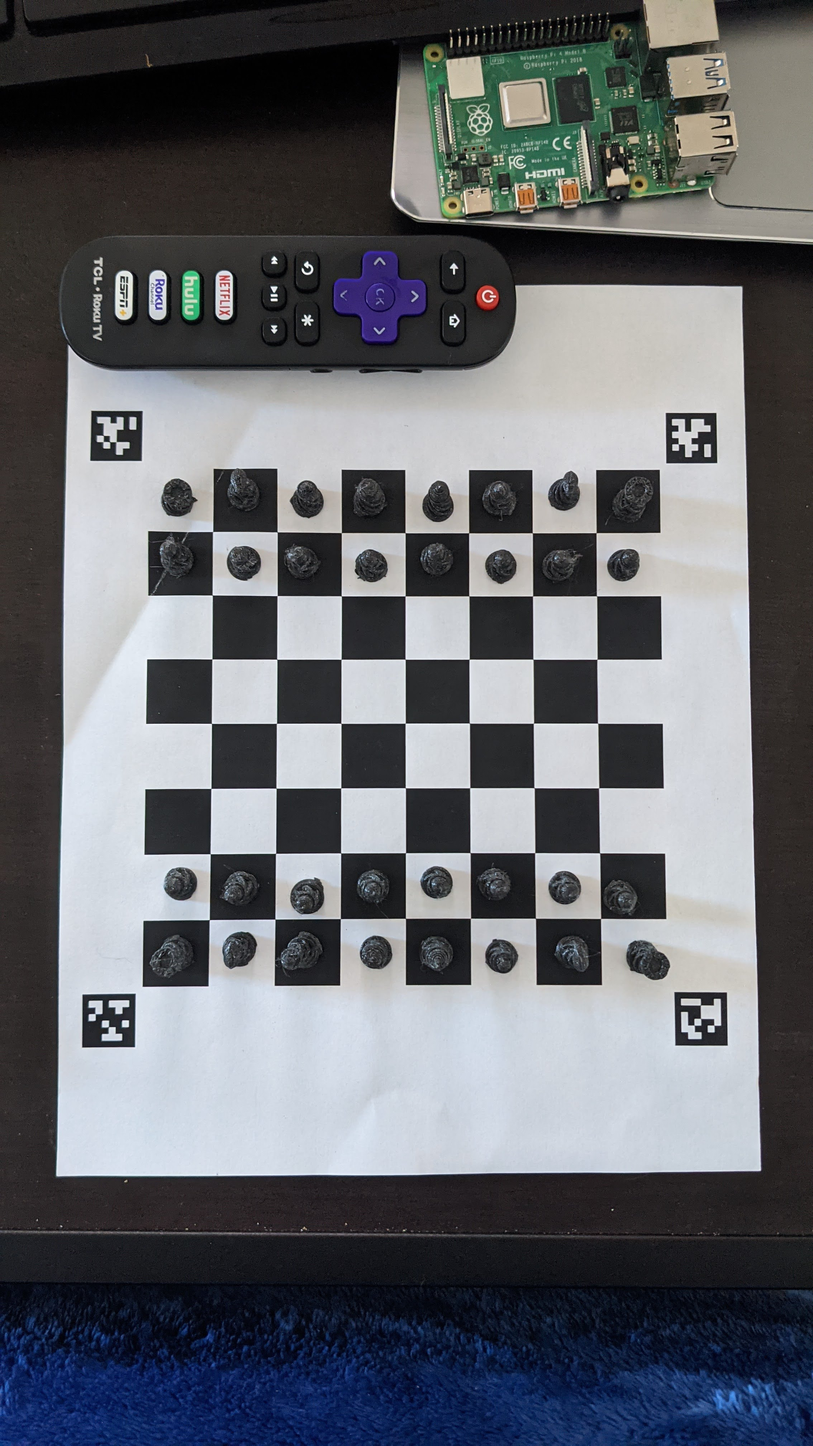
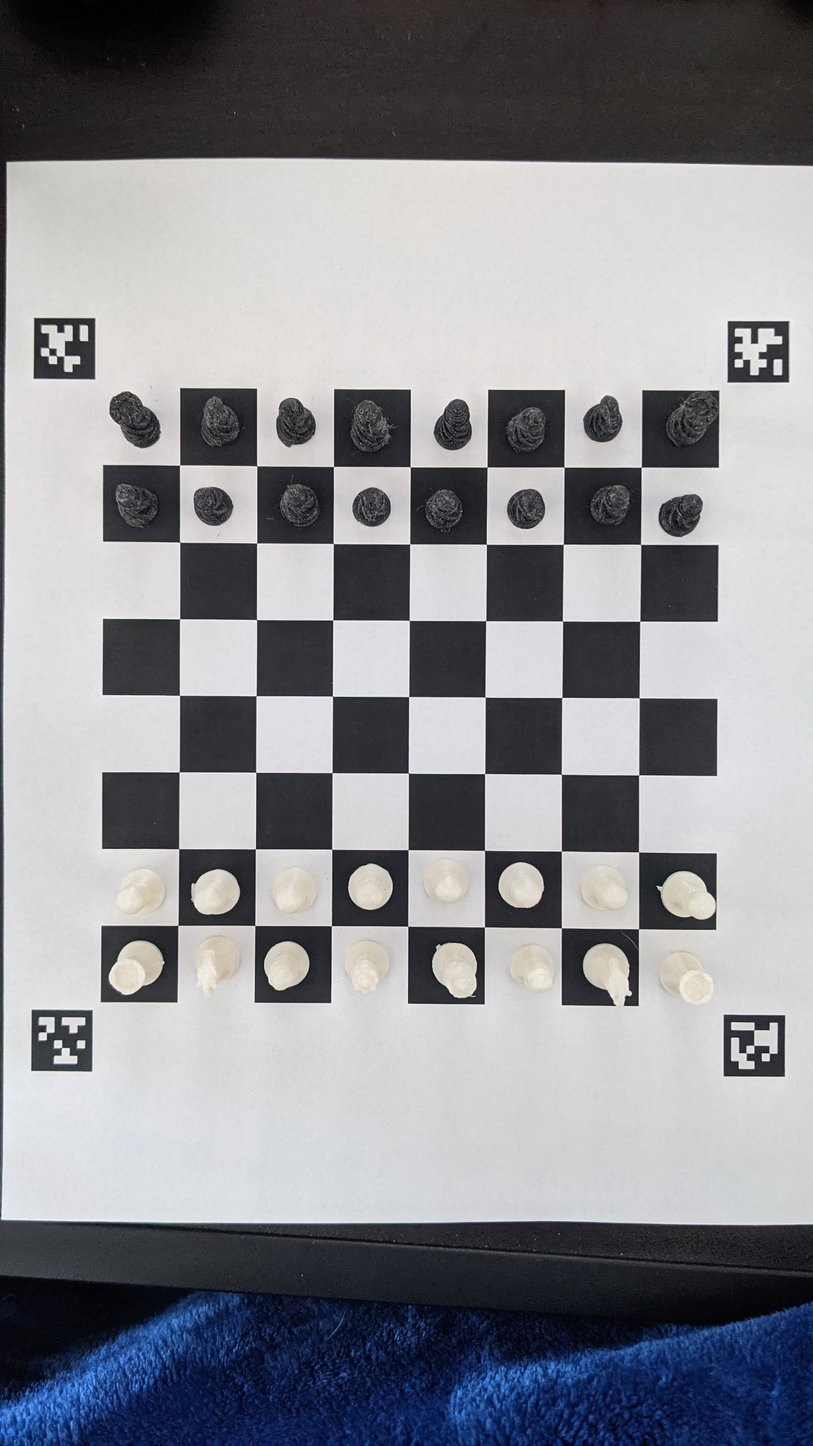
Finished prototype function for color identification

diff --git a/Chessboard.py b/Chessboard.py
@@ -3,6 +3,7 @@ from os import environ
 environ['PYGAME_HIDE_SUPPORT_PROMPT'] = '1'
 import chess, time, pygame, chess.engine, cv2, copy, math
 import numpy as np
+import random as rng
 from apriltag import apriltag
 
 #-----------------------------------------DETECTION FUNCTIONS--------------------------------------------------
@@ -91,7 +92,7 @@ def perspective_shift(image, corners):
 
 def get_detection_array(image):
     labeled_image = copy.copy(image)
-    
+        
     Files = "ABCDEFGH"
     
     blue = (255, 0, 0)
@@ -128,13 +129,10 @@ def get_detection_array(image):
     return labeled_image, detection_array
 
 def edge_detection(image):
-    image = cv2.medianBlur(image,11)
-    edges = cv2.Canny(image,80,100)
-    #cv2.imshow(str(np.sum(edges)), edges)
-    #cv2.imshow("Original", image)
-    #cv2.waitKey(0)
-    #cv2.destroyAllWindows()
-    return np.stack((edges,)*3, axis=-1), np.sum(edges)
+    blurred = cv2.medianBlur(image,3)
+    edges = cv2.Canny(blurred,80,100)
+    edges = np.stack((edges,)*3, axis=-1)
+    return edges, np.sum(edges)
 
 def get_color_array(image, detection_array):
     blue = (255, 0, 0)
@@ -144,36 +142,103 @@ def get_color_array(image, detection_array):
     gray = cv2.cvtColor(copy.copy(image), cv2.COLOR_BGR2GRAY)
     size = gray.shape[0]
     pixel = size / 82
-    color_array = np.zeros((8, 8), dtype=int)
-    average_empty_white = 0
-    average_empty_black = 0
+    color_array = np.zeros((8, 8), dtype=float)
+    white_square_ref = 0
+    empty_white_count = 0
+    black_square_ref = 0
+    empty_black_count = 0
     for y in range(8):
         for x in range(8):
-            start_point = (int(round(3 * pixel + 10 * pixel * x)), int(round(3 * pixel + 10 * pixel * y)))
-            end_point = (int(round(10 * pixel * (x + 1) - pixel)), int(round(10 * pixel * (y + 1) - pixel)))
-            
-            average = average_color(gray[start_point[1]:end_point[1], start_point[0]:end_point[0]])
-                        
-            cv2.putText(gray, str(average), (int(start_point[0]), int(start_point[1] + pixel*4.5)), cv2.FONT_HERSHEY_COMPLEX, 1, blue, 4)
-            
+            #If the current square is empty
+            if (detection_array[y][x] == 0):
+                start_point = (int(round(2 * pixel + 10 * pixel * x)), int(round(2 * pixel + 10 * pixel * y)))
+                end_point = (int(round(10 * pixel * (x + 1))), int(round(10 * pixel * (y + 1))))
+                
+                average = average_color(gray[start_point[1]:end_point[1], start_point[0]:end_point[0]])
+                                
+                cv2.putText(gray, str(average), (int(start_point[0]), int(start_point[1] + pixel*2.5)), cv2.FONT_HERSHEY_COMPLEX, 1.3, blue, 4)
+                
+                cv2.rectangle(gray, start_point, end_point, red, thickness)
+                #If the current square is white
+                if ((x + y) % 2 == 0):
+                    #cv2.putText(gray, str(average), (int(start_point[0]), int(start_point[1] + pixel*4.5)), cv2.FONT_HERSHEY_COMPLEX, 1, blue, 4)
+                    white_square_ref += average
+                    empty_white_count += 1
+                #If the current square is black
+                else:
+                    #cv2.putText(gray, str(average), (int(start_point[0]), int(start_point[1] + pixel*4.5)), cv2.FONT_HERSHEY_COMPLEX, 1, blue, 4)
+                    black_square_ref += average
+                    empty_black_count += 1
+    
+    #print(empty_black_count, empty_white_count)
+    
+    white_square_ref = white_square_ref / empty_white_count
+    black_square_ref = black_square_ref / empty_black_count
+        
+    #print(white_square_ref, black_square_ref)
+    
+    percentange = 0.1
+    
+    white_square_ref_lower = white_square_ref * (1 - percentange)
+    white_square_ref_higher = white_square_ref * (1 + percentange)
+    black_square_ref_lower = black_square_ref * (1 - percentange)
+    black_square_ref_higher = black_square_ref * (1 + percentange)
+    
+    #print(white_square_ref_lower, white_square_ref_higher, black_square_ref_lower, black_square_ref_higher)
+        
+    for y in range(8):
+        for x in range(8):
+            #If current square is occupied
+            if (detection_array[y][x] == 1):
+                start_point = (int(round(2 * pixel + 10 * pixel * x)), int(round(2 * pixel + 10 * pixel * y)))
+                end_point = (int(round(10 * pixel * (x + 1))), int(round(10 * pixel * (y + 1))))
+                square = gray[start_point[1]:end_point[1], start_point[0]:end_point[0]]
+                #If the current square is white
+                if ((x + y) % 2 == 0):
+                    square_mask = cv2.inRange(square, white_square_ref_lower, white_square_ref_higher)
+                    output = cv2.bitwise_and(square, square, mask = cv2.bitwise_not(square_mask))
+                    gray[start_point[1]:end_point[1], start_point[0]:end_point[0]] = output
+                    
+                    color_array[y][x] = average_color(output)
+                    
+                    cv2.putText(gray, str(average_color(output)), (int(start_point[0]), int(start_point[1] + pixel*4.5)), cv2.FONT_HERSHEY_COMPLEX, 1.3, blue, 4)
+                    #if (color_array[y][x] > white_square_ref):
+                        #cv2.putText(gray, 'over', (int(start_point[0]), int(start_point[1] + pixel*4.5)), cv2.FONT_HERSHEY_COMPLEX, 1.3, blue, 4)
+                    #elif (color_array[y][x] < white_square_ref):
+                        #cv2.putText(gray, 'under', (int(start_point[0]), int(start_point[1] + pixel*4.5)), cv2.FONT_HERSHEY_COMPLEX, 1.3, blue, 4)
+                #If the current square is black
+                else:
+                    square_mask = cv2.inRange(square, black_square_ref_lower, black_square_ref_higher)
+                    output = cv2.bitwise_and(square, square, mask = cv2.bitwise_not(square_mask))
+                    gray[start_point[1]:end_point[1], start_point[0]:end_point[0]] = output
+                    
+                    color_array[y][x] = average_color(output)
+                    
+                    cv2.putText(gray, str(average_color(output)), (int(start_point[0]), int(start_point[1] + pixel*4.5)), cv2.FONT_HERSHEY_COMPLEX, 1.3, blue, 4)
+                    #if (color_array[y][x] > black_square_ref):
+                        #cv2.putText(gray, '', (int(start_point[0]), int(start_point[1] + pixel*4.5)), cv2.FONT_HERSHEY_COMPLEX, 1.3, blue, 4)
+                    #elif (color_array[y][x] < black_square_ref):
+                        #cv2.putText(gray, '', (int(start_point[0]), int(start_point[1] + pixel*4.5)), cv2.FONT_HERSHEY_COMPLEX, 1.3, blue, 4)
+        
+    minval = np.min(color_array[np.nonzero(color_array)])
+    maxval = np.max(color_array[np.nonzero(color_array)])
+    
+    boundary = (maxval + minval) / 2
+    
+    for y in range(8):
+        for x in range(8):
+            if (color_array[y][x] > 0):
+                if (color_array[y][x] < boundary):
+                    color_array[y][x] = 1
+                else:
+                    color_array[y][x] = 2
+        
+    print(color_array.astype(np.int64))
+    
     return gray, color_array
 
 def average_color(image):
-    if (len(image.shape) > 2):
-        average = [0] * 3
-        for color in range(image.shape[2]):
-            for y in range(image.shape[0]):
-                for x in range(image.shape[1]):
-                    average[color] += image[y][x][color]
-            average[color] = average[color] // (image.shape[0] * image.shape[1])
-    else:
-        average = 0
-        for y in range(image.shape[0]):
-            for x in range(image.shape[1]):
-                    average += image[y][x]
-            average = round(average / (image.shape[0] * image.shape[1]), 4)
-    #print(average)
-    return average
+    return round(np.average(image[np.nonzero(image)]), 4)
                 
 
 #-----------------------------------------IMAGE DETECTION MAIN FUNCTIONS
@@ -225,7 +290,7 @@ def process_frame(frame):
     
     #Make copies of original image to keep the same for display 
     apriltagCorners, shifted, cropped, final = copy_image(frame, 4)
-            
+    
     #If 4 apriltags are seen (one in each 4 corners of chessboard), crop image and run detection
     if(len(detections) == 4):
         #Get values for the inside corners of each 4 apriltags
@@ -242,16 +307,6 @@ def process_frame(frame):
         
         gray, color_array = get_color_array(shifted, detection_array)
         
-    #Display output images
-    #show_images('resize', ('Original', frame), ('Perspective shifted', shifted), ('Labeled Image', final))
-    #show_images('resize', ('Final', final))
-
-    #Wait for use to press key
-    #cv2.waitKey(0)
-    
-    #Delete all image windows
-    #cv2.destroyAllWindows()
-    
     return detection_array, final, gray
 
 #-----------------------------------------CHESS MOVE FUNCTIONS
@@ -465,57 +520,35 @@ def print_board(window, board_array, square_size):
                 window.blit(board_array[x][y][0], board_array[x][y][1])
     pygame.display.flip()
 
-window, square_size = create_gui()
+#window, square_size = create_gui()
 
-board_array = create_board_array()
+#board_array = create_board_array()
 
-board = chess.Board()
+#board = chess.Board()
 
-print_board(window, board_array, square_size)
+#print_board(window, board_array, square_size)
 
-old_detection_array, final_image, gray = process_frame(cv2.imread('TestingImages/ItalianGame1.jpg'))
-show_images('resize', ('Final Move 1', final_image), ('Color Values Move 1', gray))
+begin = time.time()
+
+old_detection_array, piece_detection, gray = process_frame(cv2.imread('TestingImages/LightingTesting_cropped.jpg'))
+#show_images('resize', ('Color Values', gray), ('Piece Detection', piece_detection))
+show_images('resize', ('Color Values', gray))
+
+print(time.time() - begin)
+
 cv2.waitKey(0)
 
-for i in range(2, 7):
-    new_detection_array, final_image, gray = process_frame(cv2.imread('TestingImages/ItalianGame' + str(i) + '.jpg'))
-    cv2.destroyAllWindows()
-    show_images('resize', ('Final Move '+str(i), final_image), ('Color Values Move '+str(i), gray))
-    move = detection_array_to_uci(old_detection_array, new_detection_array)
-    move = chess.Move.from_uci(move)
-    board_array = update_board_array_uci(board, board_array, chess.Move.uci(move))
-    board.push(move)
-    print_board(window, board_array, square_size)
-    old_detection_array = new_detection_array
-    
-    cv2.waitKey(0)
-
-time.sleep(2)
-
-#new_detection_array = picture_method('TestingImages/ItalianGame_CaptureTesting1.jpg')
-#detection_array_to_uci(old_detection_array, new_detection_array)
-#old_detection_array = new_detection_array
-
-#new_detection_array = picture_method('TestingImages/ItalianGame_CaptureTesting2.jpg')
-#detection_array_to_uci(old_detection_array, new_detection_array)
-#old_detection_array = new_detection_array
-
-#new_detection_array = picture_method('TestingImages/ItalianGame_CaptureTesting3.jpg')
-#detection_array_to_uci(old_detection_array, new_detection_array)
-#old_detection_array = new_detection_array
-
-#new_detection_array = picture_method('TestingImages/ItalianGame_CaptureTesting4.jpg')
-#detection_array_to_uci(old_detection_array, new_detection_array)
-#old_detection_array = new_detection_array
-
-#new_detection_array = picture_method('TestingImages/ItalianGame_CaptureTesting5.jpg')
-#detection_array_to_uci(old_detection_array, new_detection_array)
-#old_detection_array = new_detection_array
-
-#new_detection_array = picture_method('TestingImages/ItalianGame_CaptureTesting6.jpg')
-#detection_array_to_uci(old_detection_array, new_detection_array)
-#old_detection_array = new_detection_array
-
-#new_detection_array = picture_method('TestingImages/ItalianGame_CaptureTesting7.jpg')
-#detection_array_to_uci(old_detection_array, new_detection_array)
-#old_detection_array = new_detection_array
+#for i in range(2, 13):
+#    new_detection_array, piece_detection, gray = process_frame(cv2.imread('TestingImages/ItalianGame' + str(i) + '.jpg'))
+#    #cv2.destroyAllWindows()
+#    show_images('resize', ('Color Values', gray), ('Piece Detection', piece_detection))
+#    #move = detection_array_to_uci(old_detection_array, new_detection_array)
+#    #move = chess.Move.from_uci(move)
+#    #board_array = update_board_array_uci(board, board_array, chess.Move.uci(move))
+#    #board.push(move)
+#    #print_board(window, board_array, square_size)
+#    old_detection_array = new_detection_array
+#    
+#    cv2.waitKey(0)
+#
+#time.sleep(2)
